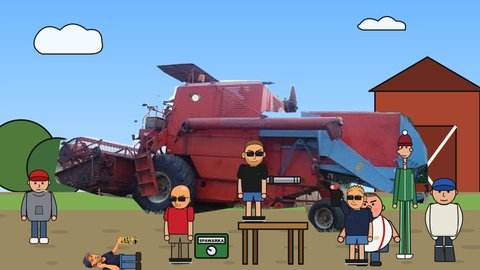
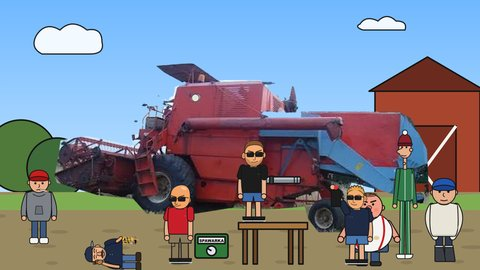
Narysowany zlomiarz zamiast obrazka

diff --git a/wiezba.html b/wiezba.html
@@ -112,7 +112,60 @@
         <g class="shin" style="transform-origin:60px -6px"><path d="M60 -6 L66 96" stroke-width="40"/><path d="M60 -6 L66 96" stroke="#4b6fa5" stroke-width="32"/>
           <rect x="48" y="90" width="64" height="32" rx="10" fill="#3a2a1c"/></g>
       </g>
-      <image href="zlomiarz.png" x="-80" y="-250" width="223" height="262"/>
+      <svg class="zlomiarz" viewBox="0 0 223 262" overflow="visible" x="-80" y="-250" width="223" height="262"><g stroke="#141414" stroke-width="4" stroke-linejoin="round" stroke-linecap="round">
+  
+  <path d="M40 160 Q60 140 112 138 Q168 140 190 160 Q204 210 206 262 H26 Q28 210 40 160 Z" fill="#1f2a44"/>
+  <path d="M90 140 L112 170 L134 140" fill="#2c3b5e"/>
+  <path d="M112 170 V205" stroke-width="3"/>
+  <circle cx="112" cy="182" r="3" fill="#d8dce6" stroke-width="1.5"/>
+  <circle cx="112" cy="196" r="3" fill="#d8dce6" stroke-width="1.5"/>
+  
+  <path d="M184 158 Q206 190 202 230" fill="none" stroke-width="34"/>
+  <path d="M184 158 Q206 190 202 230" fill="none" stroke="#1f2a44" stroke-width="26"/>
+  <path d="M200 228 Q212 246 222 254" fill="none" stroke-width="24"/>
+  <path d="M200 228 Q212 246 222 254" fill="none" stroke="#e8a777" stroke-width="16"/>
+  
+  <path d="M50 160 Q24 200 30 236" fill="none" stroke-width="34"/>
+  <path d="M50 160 Q24 200 30 236" fill="none" stroke="#1f2a44" stroke-width="26"/>
+  
+  <g class="zHead">
+    <ellipse cx="164" cy="98" rx="12" ry="18" fill="#e8a777"/>
+    <path d="M66 70 Q66 30 114 28 Q162 30 162 74 L162 112 Q160 150 116 156 Q72 152 68 116 Z" fill="#f0b386"/>
+    
+    <path d="M70 112 Q76 150 116 156 Q156 150 160 112 Q150 132 136 134 Q116 146 96 134 Q80 130 70 112 Z" fill="#7d7468" opacity=".45" stroke="none"/>
+    
+    <path d="M62 62 Q60 16 114 14 Q166 16 166 62 Z" fill="#26324d"/>
+    <path d="M150 56 Q186 50 204 62 Q186 72 150 68 Z" fill="#8f96a3"/>
+    <path d="M62 62 H166" stroke-width="5"/>
+    <circle cx="114" cy="16" r="5" fill="#26324d"/>
+    
+    <path d="M84 78 Q96 70 108 78" fill="none" stroke="#4a3b2c" stroke-width="7"/>
+    <path d="M124 78 Q136 70 150 78" fill="none" stroke="#4a3b2c" stroke-width="7"/>
+    
+    <path d="M88 90 Q96 86 104 90" fill="none" stroke-width="4"/>
+    <path d="M128 90 Q136 86 144 90" fill="none" stroke-width="4"/>
+    
+    <path d="M110 92 Q98 116 108 122 Q118 128 128 120 Q132 108 120 92" fill="#e89a6e"/>
+    
+    <path d="M90 130 Q104 120 116 126 Q128 120 142 130 Q130 138 116 132 Q102 138 90 130 Z" fill="#5a4a38"/>
+    
+    <path class="mC" d="M104 142 Q116 146 128 140" fill="none" stroke-width="4"/>
+    <g class="mO" style="display:none">
+      <path d="M102 138 Q116 136 130 136 Q126 154 116 154 Q104 154 102 138 Z" fill="#5a1717"/>
+      <path d="M108 148 Q116 144 124 148 Q120 153 116 153 Q110 153 108 148 Z" fill="#d9605e" stroke="none"/>
+    </g>
+    
+    <ellipse cx="66" cy="98" rx="11" ry="17" fill="#e8a777"/>
+  </g>
+  
+  <path d="M30 236 Q36 170 56 128" fill="none" stroke-width="24"/>
+  <path d="M30 236 Q36 170 56 128" fill="none" stroke="#e8a777" stroke-width="16"/>
+  <rect x="50" y="68" width="18" height="44" rx="5" fill="#f08a24" transform="rotate(-14 59 90)"/>
+  <rect x="54" y="74" width="10" height="16" rx="2" fill="#2a2f3a" stroke-width="2" transform="rotate(-14 59 90)"/>
+  <path d="M46 104 Q44 126 60 132 Q74 130 76 116 Q76 102 66 98 Q52 96 46 104 Z" fill="#e8a777"/>
+  <path d="M52 108 H70 M51 116 H71 M54 124 H68" stroke-width="2.5"/>
+</g>
+</svg>
       <g id="zBeer"><image href="tatra.png" x="-150" y="-60" width="34" height="90"/></g>
     </g></g></g></g>
     <g id="roofFront"><path d="M529.6774193548388 330 L890.3225806451612 330" stroke="#141414" stroke-width="28" stroke-linecap="round"/><path d="M529.6774193548388 330 L890.3225806451612 330" stroke="#e0bc86" stroke-width="20" stroke-linecap="round"/></g>

diff --git a/altana.html b/altana.html
@@ -258,7 +258,60 @@
         <!-- puszka Tatry w dloni -->
         <image id="beer" href="tatra.png" x="115" y="-150" width="51" height="134"/>
       </g>
-      <image href="zlomiarz.png" x="-64" y="-387" width="223" height="262"/>
+      <svg class="zlomiarz" viewBox="0 0 223 262" overflow="visible" x="-64" y="-387" width="223" height="262"><g stroke="#141414" stroke-width="4" stroke-linejoin="round" stroke-linecap="round">
+  
+  <path d="M40 160 Q60 140 112 138 Q168 140 190 160 Q204 210 206 262 H26 Q28 210 40 160 Z" fill="#1f2a44"/>
+  <path d="M90 140 L112 170 L134 140" fill="#2c3b5e"/>
+  <path d="M112 170 V205" stroke-width="3"/>
+  <circle cx="112" cy="182" r="3" fill="#d8dce6" stroke-width="1.5"/>
+  <circle cx="112" cy="196" r="3" fill="#d8dce6" stroke-width="1.5"/>
+  
+  <path d="M184 158 Q206 190 202 230" fill="none" stroke-width="34"/>
+  <path d="M184 158 Q206 190 202 230" fill="none" stroke="#1f2a44" stroke-width="26"/>
+  <path d="M200 228 Q212 246 222 254" fill="none" stroke-width="24"/>
+  <path d="M200 228 Q212 246 222 254" fill="none" stroke="#e8a777" stroke-width="16"/>
+  
+  <path d="M50 160 Q24 200 30 236" fill="none" stroke-width="34"/>
+  <path d="M50 160 Q24 200 30 236" fill="none" stroke="#1f2a44" stroke-width="26"/>
+  
+  <g class="zHead">
+    <ellipse cx="164" cy="98" rx="12" ry="18" fill="#e8a777"/>
+    <path d="M66 70 Q66 30 114 28 Q162 30 162 74 L162 112 Q160 150 116 156 Q72 152 68 116 Z" fill="#f0b386"/>
+    
+    <path d="M70 112 Q76 150 116 156 Q156 150 160 112 Q150 132 136 134 Q116 146 96 134 Q80 130 70 112 Z" fill="#7d7468" opacity=".45" stroke="none"/>
+    
+    <path d="M62 62 Q60 16 114 14 Q166 16 166 62 Z" fill="#26324d"/>
+    <path d="M150 56 Q186 50 204 62 Q186 72 150 68 Z" fill="#8f96a3"/>
+    <path d="M62 62 H166" stroke-width="5"/>
+    <circle cx="114" cy="16" r="5" fill="#26324d"/>
+    
+    <path d="M84 78 Q96 70 108 78" fill="none" stroke="#4a3b2c" stroke-width="7"/>
+    <path d="M124 78 Q136 70 150 78" fill="none" stroke="#4a3b2c" stroke-width="7"/>
+    
+    <path d="M88 90 Q96 86 104 90" fill="none" stroke-width="4"/>
+    <path d="M128 90 Q136 86 144 90" fill="none" stroke-width="4"/>
+    
+    <path d="M110 92 Q98 116 108 122 Q118 128 128 120 Q132 108 120 92" fill="#e89a6e"/>
+    
+    <path d="M90 130 Q104 120 116 126 Q128 120 142 130 Q130 138 116 132 Q102 138 90 130 Z" fill="#5a4a38"/>
+    
+    <path class="mC" d="M104 142 Q116 146 128 140" fill="none" stroke-width="4"/>
+    <g class="mO" style="display:none">
+      <path d="M102 138 Q116 136 130 136 Q126 154 116 154 Q104 154 102 138 Z" fill="#5a1717"/>
+      <path d="M108 148 Q116 144 124 148 Q120 153 116 153 Q110 153 108 148 Z" fill="#d9605e" stroke="none"/>
+    </g>
+    
+    <ellipse cx="66" cy="98" rx="11" ry="17" fill="#e8a777"/>
+  </g>
+  
+  <path d="M30 236 Q36 170 56 128" fill="none" stroke-width="24"/>
+  <path d="M30 236 Q36 170 56 128" fill="none" stroke="#e8a777" stroke-width="16"/>
+  <rect x="50" y="68" width="18" height="44" rx="5" fill="#f08a24" transform="rotate(-14 59 90)"/>
+  <rect x="54" y="74" width="10" height="16" rx="2" fill="#2a2f3a" stroke-width="2" transform="rotate(-14 59 90)"/>
+  <path d="M46 104 Q44 126 60 132 Q74 130 76 116 Q76 102 66 98 Q52 96 46 104 Z" fill="#e8a777"/>
+  <path d="M52 108 H70 M51 116 H71 M54 124 H68" stroke-width="2.5"/>
+</g>
+</svg>
     </g></g>
 
     <g id="aStW" style="display:none"><g id="aSt"><g class="face"><g class="bob" style="transform-origin:0px 0px">

diff --git a/bizon.html b/bizon.html
@@ -174,7 +174,60 @@
         <!-- puszka Tatry w dloni -->
         <image id="beer" href="tatra.png" x="115" y="-150" width="51" height="134"/>
       </g>
-      <image href="zlomiarz.png" x="-64" y="-387" width="223" height="262"/>
+      <svg class="zlomiarz" viewBox="0 0 223 262" overflow="visible" x="-64" y="-387" width="223" height="262"><g stroke="#141414" stroke-width="4" stroke-linejoin="round" stroke-linecap="round">
+  
+  <path d="M40 160 Q60 140 112 138 Q168 140 190 160 Q204 210 206 262 H26 Q28 210 40 160 Z" fill="#1f2a44"/>
+  <path d="M90 140 L112 170 L134 140" fill="#2c3b5e"/>
+  <path d="M112 170 V205" stroke-width="3"/>
+  <circle cx="112" cy="182" r="3" fill="#d8dce6" stroke-width="1.5"/>
+  <circle cx="112" cy="196" r="3" fill="#d8dce6" stroke-width="1.5"/>
+  
+  <path d="M184 158 Q206 190 202 230" fill="none" stroke-width="34"/>
+  <path d="M184 158 Q206 190 202 230" fill="none" stroke="#1f2a44" stroke-width="26"/>
+  <path d="M200 228 Q212 246 222 254" fill="none" stroke-width="24"/>
+  <path d="M200 228 Q212 246 222 254" fill="none" stroke="#e8a777" stroke-width="16"/>
+  
+  <path d="M50 160 Q24 200 30 236" fill="none" stroke-width="34"/>
+  <path d="M50 160 Q24 200 30 236" fill="none" stroke="#1f2a44" stroke-width="26"/>
+  
+  <g class="zHead">
+    <ellipse cx="164" cy="98" rx="12" ry="18" fill="#e8a777"/>
+    <path d="M66 70 Q66 30 114 28 Q162 30 162 74 L162 112 Q160 150 116 156 Q72 152 68 116 Z" fill="#f0b386"/>
+    
+    <path d="M70 112 Q76 150 116 156 Q156 150 160 112 Q150 132 136 134 Q116 146 96 134 Q80 130 70 112 Z" fill="#7d7468" opacity=".45" stroke="none"/>
+    
+    <path d="M62 62 Q60 16 114 14 Q166 16 166 62 Z" fill="#26324d"/>
+    <path d="M150 56 Q186 50 204 62 Q186 72 150 68 Z" fill="#8f96a3"/>
+    <path d="M62 62 H166" stroke-width="5"/>
+    <circle cx="114" cy="16" r="5" fill="#26324d"/>
+    
+    <path d="M84 78 Q96 70 108 78" fill="none" stroke="#4a3b2c" stroke-width="7"/>
+    <path d="M124 78 Q136 70 150 78" fill="none" stroke="#4a3b2c" stroke-width="7"/>
+    
+    <path d="M88 90 Q96 86 104 90" fill="none" stroke-width="4"/>
+    <path d="M128 90 Q136 86 144 90" fill="none" stroke-width="4"/>
+    
+    <path d="M110 92 Q98 116 108 122 Q118 128 128 120 Q132 108 120 92" fill="#e89a6e"/>
+    
+    <path d="M90 130 Q104 120 116 126 Q128 120 142 130 Q130 138 116 132 Q102 138 90 130 Z" fill="#5a4a38"/>
+    
+    <path class="mC" d="M104 142 Q116 146 128 140" fill="none" stroke-width="4"/>
+    <g class="mO" style="display:none">
+      <path d="M102 138 Q116 136 130 136 Q126 154 116 154 Q104 154 102 138 Z" fill="#5a1717"/>
+      <path d="M108 148 Q116 144 124 148 Q120 153 116 153 Q110 153 108 148 Z" fill="#d9605e" stroke="none"/>
+    </g>
+    
+    <ellipse cx="66" cy="98" rx="11" ry="17" fill="#e8a777"/>
+  </g>
+  
+  <path d="M30 236 Q36 170 56 128" fill="none" stroke-width="24"/>
+  <path d="M30 236 Q36 170 56 128" fill="none" stroke="#e8a777" stroke-width="16"/>
+  <rect x="50" y="68" width="18" height="44" rx="5" fill="#f08a24" transform="rotate(-14 59 90)"/>
+  <rect x="54" y="74" width="10" height="16" rx="2" fill="#2a2f3a" stroke-width="2" transform="rotate(-14 59 90)"/>
+  <path d="M46 104 Q44 126 60 132 Q74 130 76 116 Q76 102 66 98 Q52 96 46 104 Z" fill="#e8a777"/>
+  <path d="M52 108 H70 M51 116 H71 M54 124 H68" stroke-width="2.5"/>
+</g>
+</svg>
     </g></g>
 
     <g id="chudy" style="display:none"><g class="bob" style="transform-origin:0px 0px">

diff --git a/niewybuch.html b/niewybuch.html
@@ -591,7 +591,60 @@
         <!-- puszka Tatry w dloni -->
         <image id="beer" href="tatra.png" x="115" y="-150" width="51" height="134"/>
       </g>
-      <image href="zlomiarz.png" x="-64" y="-387" width="223" height="262"/>
+      <svg class="zlomiarz" viewBox="0 0 223 262" overflow="visible" x="-64" y="-387" width="223" height="262"><g stroke="#141414" stroke-width="4" stroke-linejoin="round" stroke-linecap="round">
+  
+  <path d="M40 160 Q60 140 112 138 Q168 140 190 160 Q204 210 206 262 H26 Q28 210 40 160 Z" fill="#1f2a44"/>
+  <path d="M90 140 L112 170 L134 140" fill="#2c3b5e"/>
+  <path d="M112 170 V205" stroke-width="3"/>
+  <circle cx="112" cy="182" r="3" fill="#d8dce6" stroke-width="1.5"/>
+  <circle cx="112" cy="196" r="3" fill="#d8dce6" stroke-width="1.5"/>
+  
+  <path d="M184 158 Q206 190 202 230" fill="none" stroke-width="34"/>
+  <path d="M184 158 Q206 190 202 230" fill="none" stroke="#1f2a44" stroke-width="26"/>
+  <path d="M200 228 Q212 246 222 254" fill="none" stroke-width="24"/>
+  <path d="M200 228 Q212 246 222 254" fill="none" stroke="#e8a777" stroke-width="16"/>
+  
+  <path d="M50 160 Q24 200 30 236" fill="none" stroke-width="34"/>
+  <path d="M50 160 Q24 200 30 236" fill="none" stroke="#1f2a44" stroke-width="26"/>
+  
+  <g class="zHead">
+    <ellipse cx="164" cy="98" rx="12" ry="18" fill="#e8a777"/>
+    <path d="M66 70 Q66 30 114 28 Q162 30 162 74 L162 112 Q160 150 116 156 Q72 152 68 116 Z" fill="#f0b386"/>
+    
+    <path d="M70 112 Q76 150 116 156 Q156 150 160 112 Q150 132 136 134 Q116 146 96 134 Q80 130 70 112 Z" fill="#7d7468" opacity=".45" stroke="none"/>
+    
+    <path d="M62 62 Q60 16 114 14 Q166 16 166 62 Z" fill="#26324d"/>
+    <path d="M150 56 Q186 50 204 62 Q186 72 150 68 Z" fill="#8f96a3"/>
+    <path d="M62 62 H166" stroke-width="5"/>
+    <circle cx="114" cy="16" r="5" fill="#26324d"/>
+    
+    <path d="M84 78 Q96 70 108 78" fill="none" stroke="#4a3b2c" stroke-width="7"/>
+    <path d="M124 78 Q136 70 150 78" fill="none" stroke="#4a3b2c" stroke-width="7"/>
+    
+    <path d="M88 90 Q96 86 104 90" fill="none" stroke-width="4"/>
+    <path d="M128 90 Q136 86 144 90" fill="none" stroke-width="4"/>
+    
+    <path d="M110 92 Q98 116 108 122 Q118 128 128 120 Q132 108 120 92" fill="#e89a6e"/>
+    
+    <path d="M90 130 Q104 120 116 126 Q128 120 142 130 Q130 138 116 132 Q102 138 90 130 Z" fill="#5a4a38"/>
+    
+    <path class="mC" d="M104 142 Q116 146 128 140" fill="none" stroke-width="4"/>
+    <g class="mO" style="display:none">
+      <path d="M102 138 Q116 136 130 136 Q126 154 116 154 Q104 154 102 138 Z" fill="#5a1717"/>
+      <path d="M108 148 Q116 144 124 148 Q120 153 116 153 Q110 153 108 148 Z" fill="#d9605e" stroke="none"/>
+    </g>
+    
+    <ellipse cx="66" cy="98" rx="11" ry="17" fill="#e8a777"/>
+  </g>
+  
+  <path d="M30 236 Q36 170 56 128" fill="none" stroke-width="24"/>
+  <path d="M30 236 Q36 170 56 128" fill="none" stroke="#e8a777" stroke-width="16"/>
+  <rect x="50" y="68" width="18" height="44" rx="5" fill="#f08a24" transform="rotate(-14 59 90)"/>
+  <rect x="54" y="74" width="10" height="16" rx="2" fill="#2a2f3a" stroke-width="2" transform="rotate(-14 59 90)"/>
+  <path d="M46 104 Q44 126 60 132 Q74 130 76 116 Q76 102 66 98 Q52 96 46 104 Z" fill="#e8a777"/>
+  <path d="M52 108 H70 M51 116 H71 M54 124 H68" stroke-width="2.5"/>
+</g>
+</svg>
     </g></g>
 
     <!-- czapka zlomiarza spadajaca z nieba (final) -->

diff --git a/bomba.html b/bomba.html
@@ -463,7 +463,60 @@
         <!-- puszka Tatry w dloni -->
         <image id="beer" href="tatra.png" x="115" y="-150" width="51" height="134"/>
       </g>
-      <image href="zlomiarz.png" x="-64" y="-387" width="223" height="262"/>
+      <svg class="zlomiarz" viewBox="0 0 223 262" overflow="visible" x="-64" y="-387" width="223" height="262"><g stroke="#141414" stroke-width="4" stroke-linejoin="round" stroke-linecap="round">
+  
+  <path d="M40 160 Q60 140 112 138 Q168 140 190 160 Q204 210 206 262 H26 Q28 210 40 160 Z" fill="#1f2a44"/>
+  <path d="M90 140 L112 170 L134 140" fill="#2c3b5e"/>
+  <path d="M112 170 V205" stroke-width="3"/>
+  <circle cx="112" cy="182" r="3" fill="#d8dce6" stroke-width="1.5"/>
+  <circle cx="112" cy="196" r="3" fill="#d8dce6" stroke-width="1.5"/>
+  
+  <path d="M184 158 Q206 190 202 230" fill="none" stroke-width="34"/>
+  <path d="M184 158 Q206 190 202 230" fill="none" stroke="#1f2a44" stroke-width="26"/>
+  <path d="M200 228 Q212 246 222 254" fill="none" stroke-width="24"/>
+  <path d="M200 228 Q212 246 222 254" fill="none" stroke="#e8a777" stroke-width="16"/>
+  
+  <path d="M50 160 Q24 200 30 236" fill="none" stroke-width="34"/>
+  <path d="M50 160 Q24 200 30 236" fill="none" stroke="#1f2a44" stroke-width="26"/>
+  
+  <g class="zHead">
+    <ellipse cx="164" cy="98" rx="12" ry="18" fill="#e8a777"/>
+    <path d="M66 70 Q66 30 114 28 Q162 30 162 74 L162 112 Q160 150 116 156 Q72 152 68 116 Z" fill="#f0b386"/>
+    
+    <path d="M70 112 Q76 150 116 156 Q156 150 160 112 Q150 132 136 134 Q116 146 96 134 Q80 130 70 112 Z" fill="#7d7468" opacity=".45" stroke="none"/>
+    
+    <path d="M62 62 Q60 16 114 14 Q166 16 166 62 Z" fill="#26324d"/>
+    <path d="M150 56 Q186 50 204 62 Q186 72 150 68 Z" fill="#8f96a3"/>
+    <path d="M62 62 H166" stroke-width="5"/>
+    <circle cx="114" cy="16" r="5" fill="#26324d"/>
+    
+    <path d="M84 78 Q96 70 108 78" fill="none" stroke="#4a3b2c" stroke-width="7"/>
+    <path d="M124 78 Q136 70 150 78" fill="none" stroke="#4a3b2c" stroke-width="7"/>
+    
+    <path d="M88 90 Q96 86 104 90" fill="none" stroke-width="4"/>
+    <path d="M128 90 Q136 86 144 90" fill="none" stroke-width="4"/>
+    
+    <path d="M110 92 Q98 116 108 122 Q118 128 128 120 Q132 108 120 92" fill="#e89a6e"/>
+    
+    <path d="M90 130 Q104 120 116 126 Q128 120 142 130 Q130 138 116 132 Q102 138 90 130 Z" fill="#5a4a38"/>
+    
+    <path class="mC" d="M104 142 Q116 146 128 140" fill="none" stroke-width="4"/>
+    <g class="mO" style="display:none">
+      <path d="M102 138 Q116 136 130 136 Q126 154 116 154 Q104 154 102 138 Z" fill="#5a1717"/>
+      <path d="M108 148 Q116 144 124 148 Q120 153 116 153 Q110 153 108 148 Z" fill="#d9605e" stroke="none"/>
+    </g>
+    
+    <ellipse cx="66" cy="98" rx="11" ry="17" fill="#e8a777"/>
+  </g>
+  
+  <path d="M30 236 Q36 170 56 128" fill="none" stroke-width="24"/>
+  <path d="M30 236 Q36 170 56 128" fill="none" stroke="#e8a777" stroke-width="16"/>
+  <rect x="50" y="68" width="18" height="44" rx="5" fill="#f08a24" transform="rotate(-14 59 90)"/>
+  <rect x="54" y="74" width="10" height="16" rx="2" fill="#2a2f3a" stroke-width="2" transform="rotate(-14 59 90)"/>
+  <path d="M46 104 Q44 126 60 132 Q74 130 76 116 Q76 102 66 98 Q52 96 46 104 Z" fill="#e8a777"/>
+  <path d="M52 108 H70 M51 116 H71 M54 124 H68" stroke-width="2.5"/>
+</g>
+</svg>
     </g></g>
 
 
